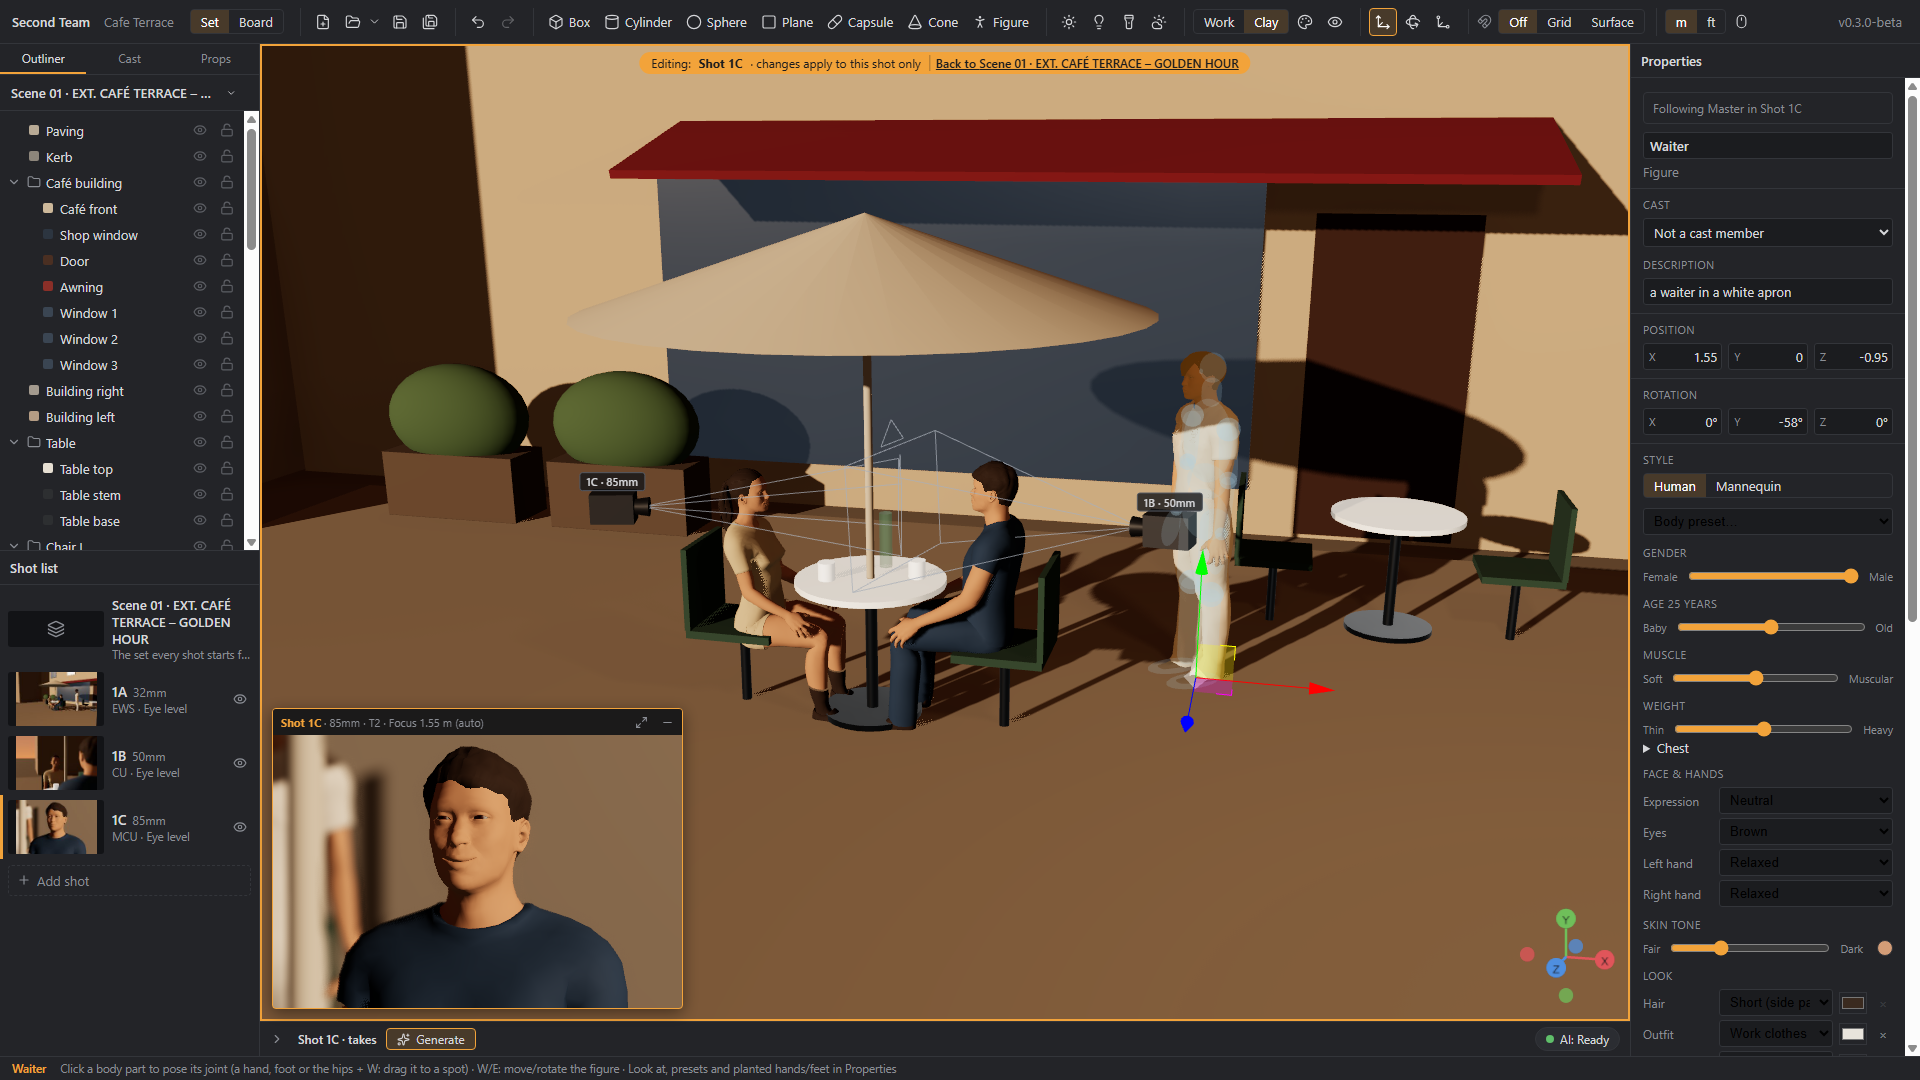
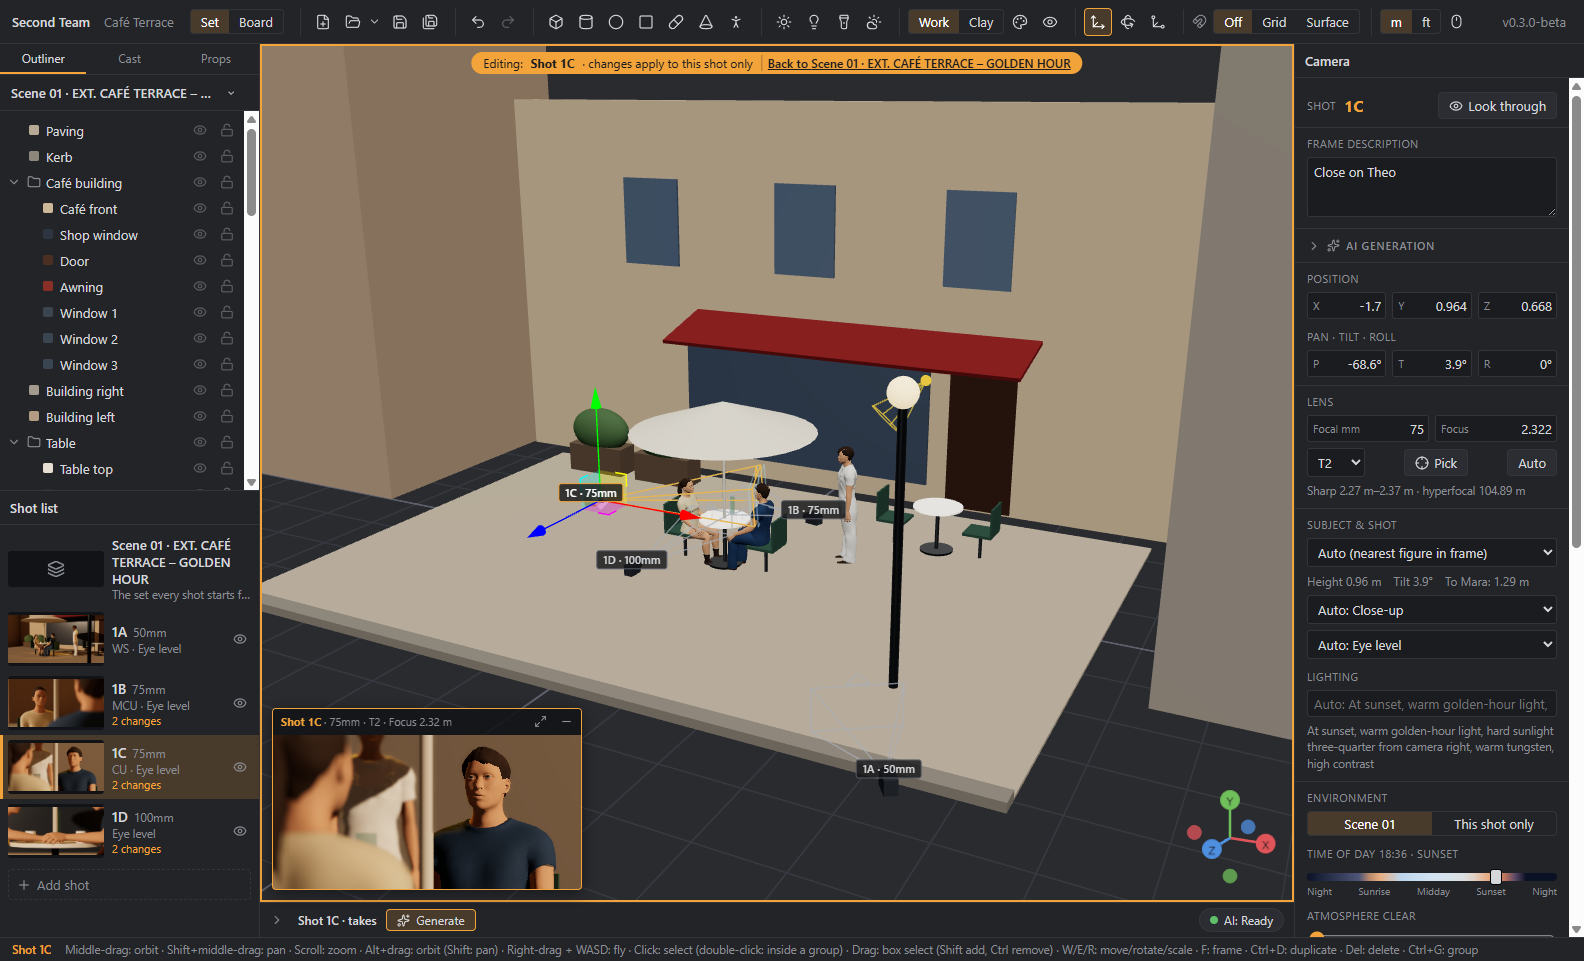
README: new main screenshot

diff --git a/README.md b/README.md
@@ -10,7 +10,7 @@
 </p>
 
 <p align="center">
-  <img src="docs/images/screenshot.png" alt="Second Team: a café terrace set at golden hour, with three shots in the shot list and the 85mm close-up in the shot window">
+  <img src="docs/images/screenshot.png" alt="Second Team: a café terrace set with four shots in the shot list, the camera bodies placed in the set, a 75mm close-up in the shot window and the camera's lens, focus and lighting in Properties">
 </p>
 
 ---
